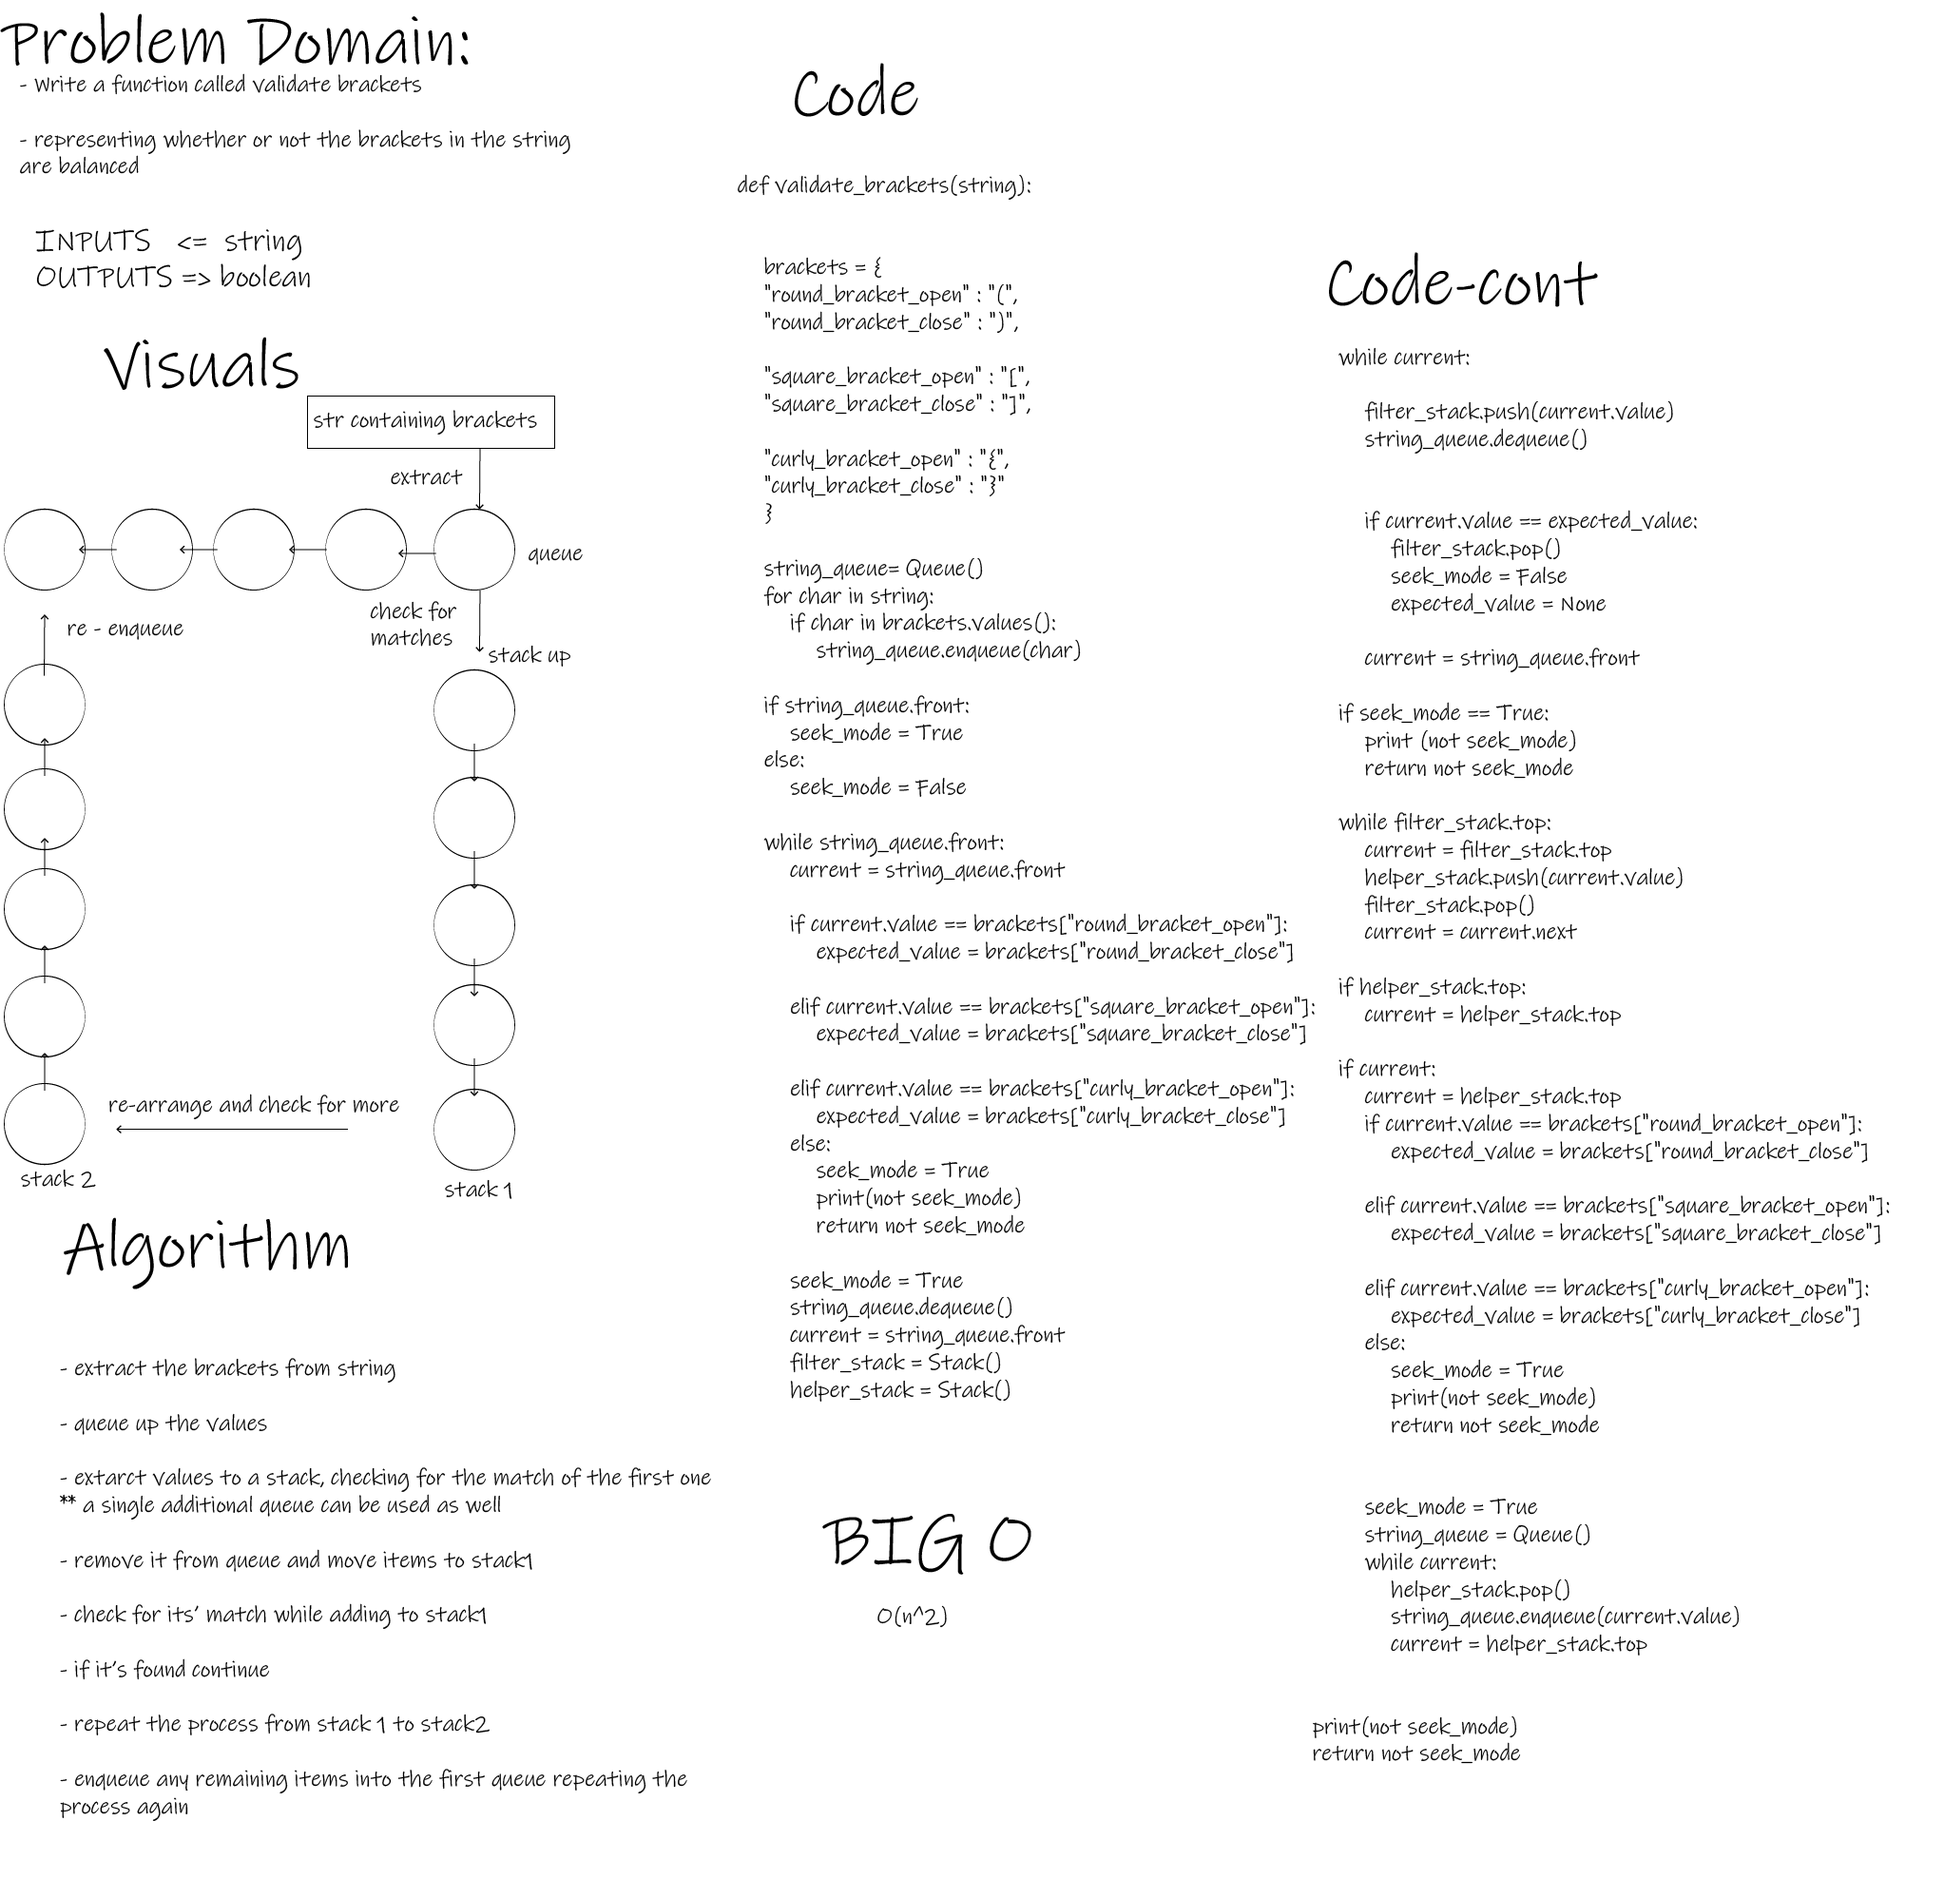
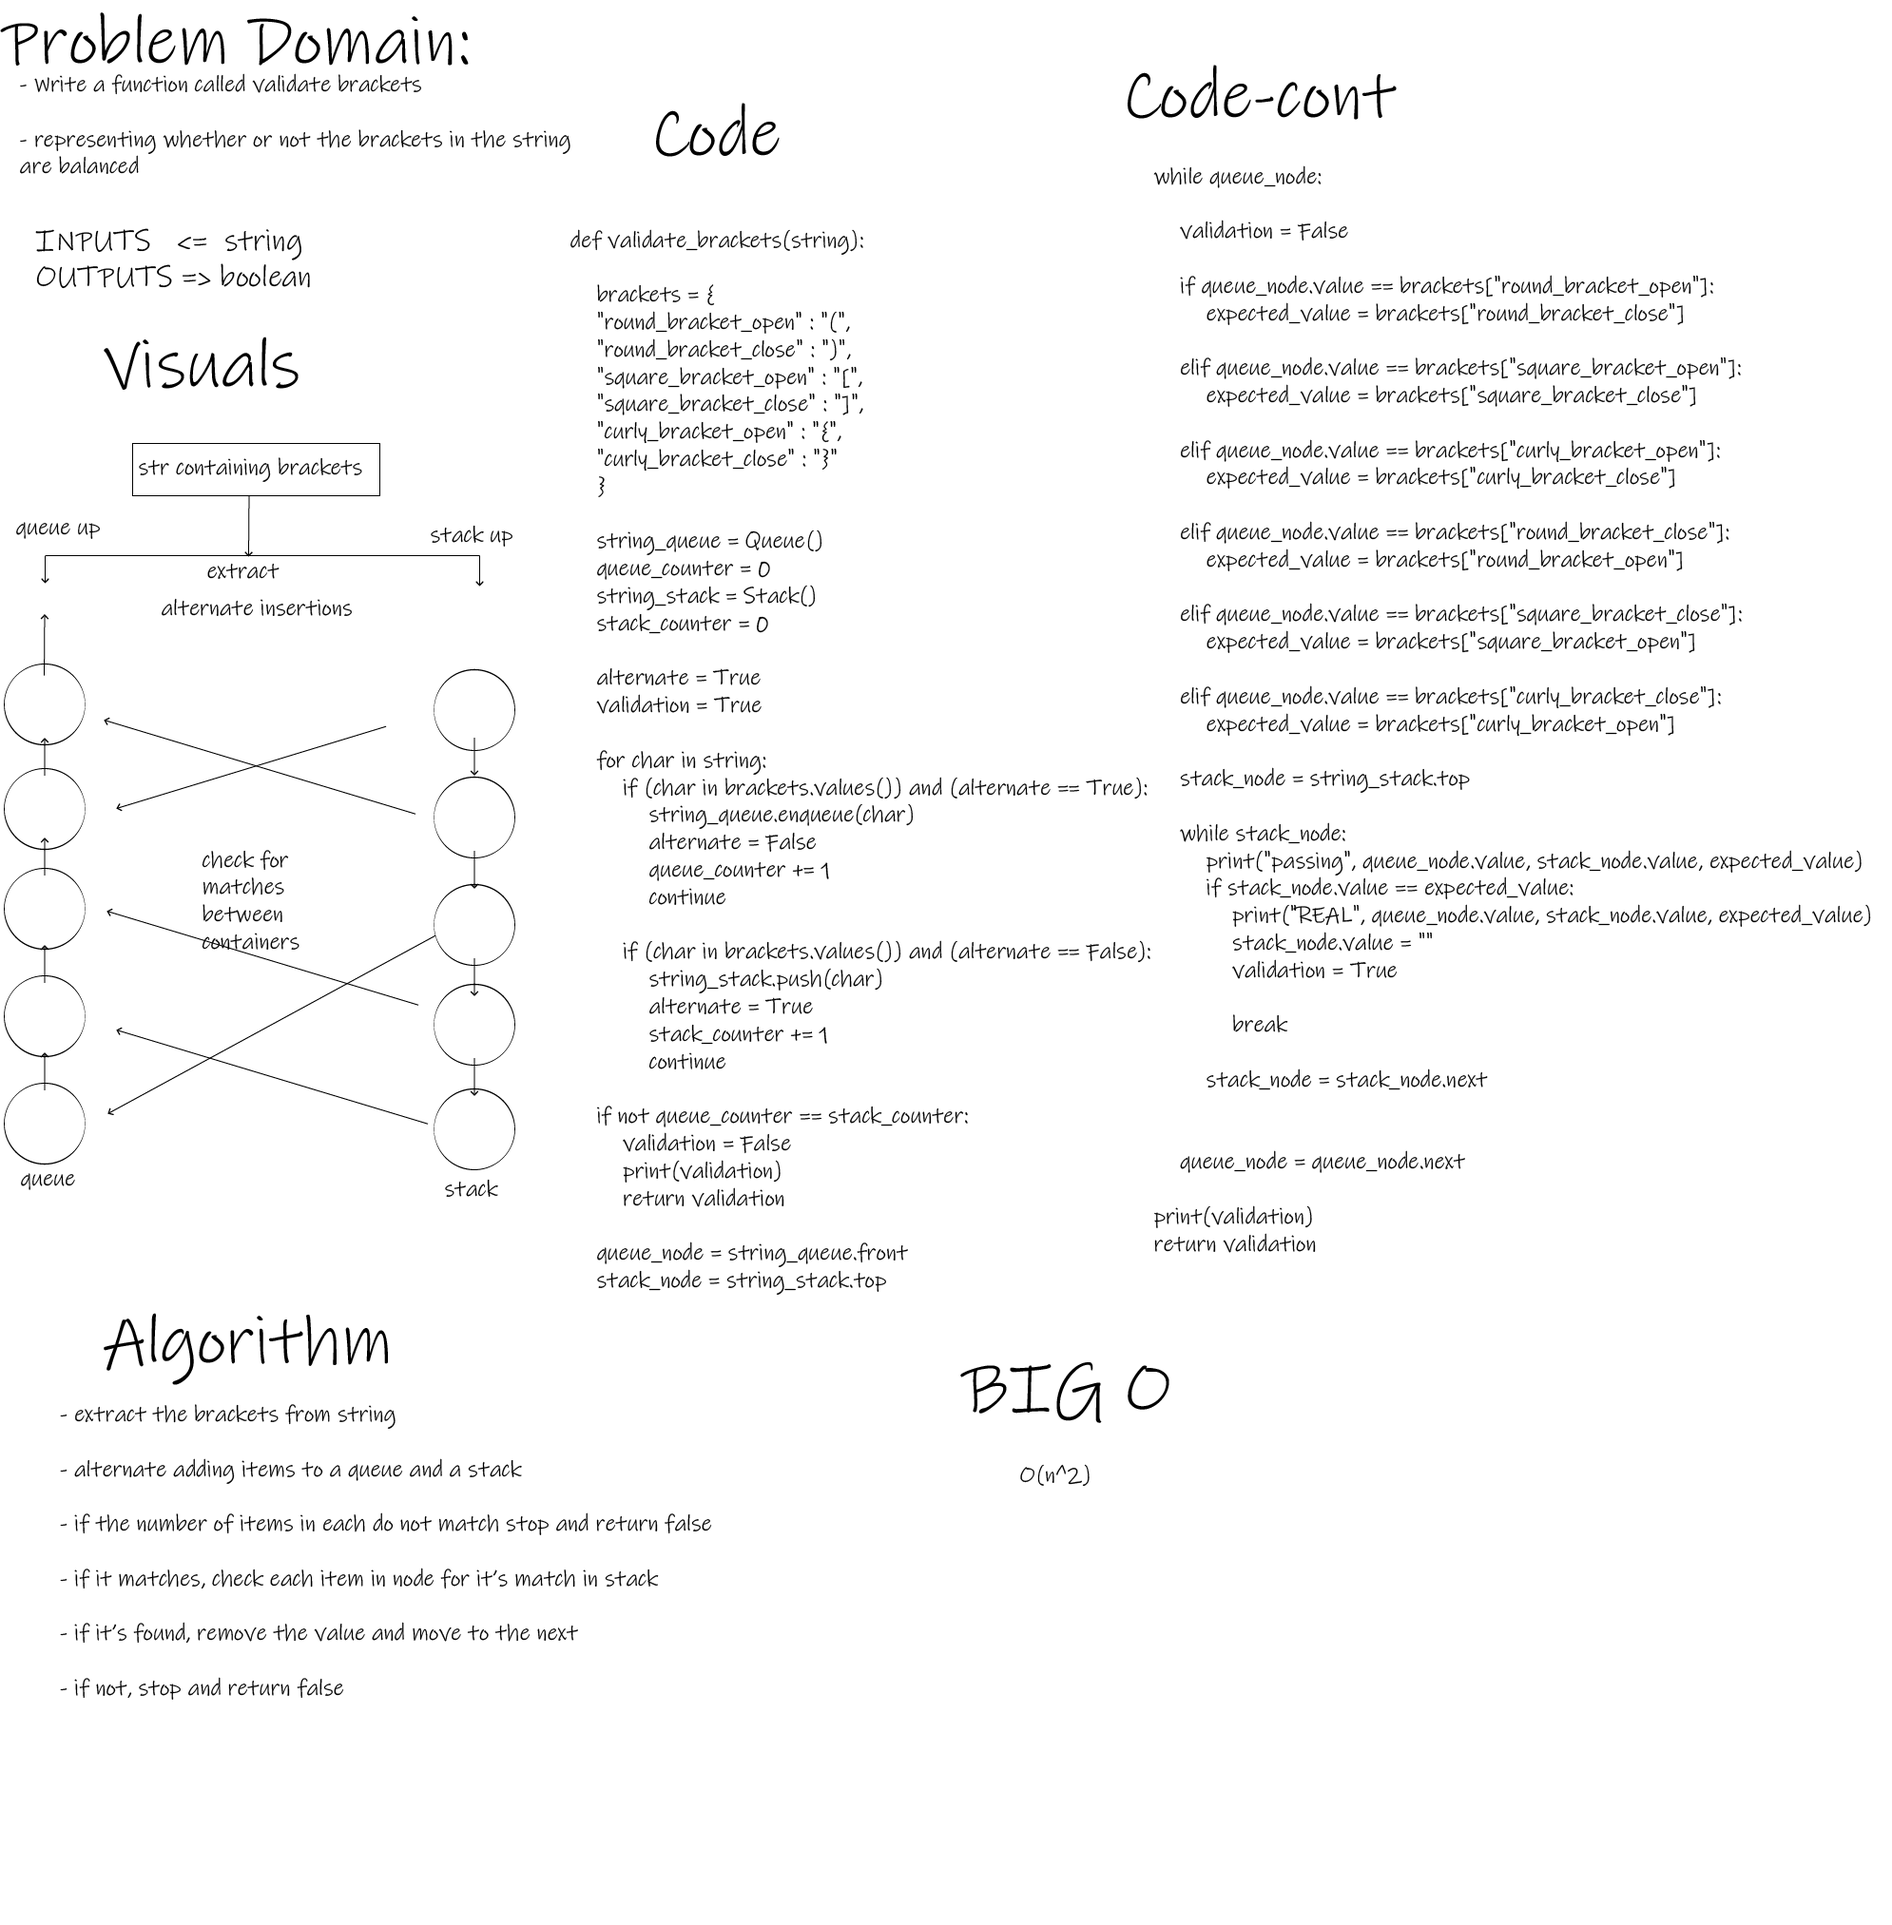
feat:completed stack-queue-brackets)

diff --git a/python/stack_and_queue/stack_queue_brackets.py b/python/stack_and_queue/stack_queue_brackets.py
@@ -4,6 +4,7 @@ from stack_and_queue.stack  import Stack
 # from queue  import Queue
 # from stack  import Stack
 
+
 def validate_brackets(string):
     """
     Representing whether or not the brackets in the string are balanced.
@@ -29,98 +30,78 @@ def validate_brackets(string):
     "curly_bracket_close" : "}"
     }
 
-    string_queue= Queue()
+    string_queue = Queue()
+    queue_counter = 0
+    string_stack = Stack()
+    stack_counter = 0
+
+    alternate = True
+    validation = True
+
     for char in string:
-        if char in brackets.values():
+        if (char in brackets.values()) and (alternate == True):
             string_queue.enqueue(char)
+            alternate = False
+            queue_counter += 1
+            continue
 
-    if string_queue.front:
-        seek_mode = True
-    else:
-        seek_mode = False
+        if (char in brackets.values()) and (alternate == False):
+            string_stack.push(char)
+            alternate = True
+            stack_counter += 1
+            continue
 
-    while string_queue.front:
-        current = string_queue.front
+    if not queue_counter == stack_counter:
+        validation = False
+        print(validation)
+        return validation
 
-        if current.value == brackets["round_bracket_open"]:
+    queue_node = string_queue.front
+    stack_node = string_stack.top
+
+
+    while queue_node:
+
+        validation = False
+
+        if queue_node.value == brackets["round_bracket_open"]:
             expected_value = brackets["round_bracket_close"]
 
-        elif current.value == brackets["square_bracket_open"]:
+        elif queue_node.value == brackets["square_bracket_open"]:
             expected_value = brackets["square_bracket_close"]
 
-        elif current.value == brackets["curly_bracket_open"]:
+        elif queue_node.value == brackets["curly_bracket_open"]:
             expected_value = brackets["curly_bracket_close"]
-        else:
-            seek_mode = True
-            print(not seek_mode)
-            return not seek_mode
 
-        seek_mode = True
-        string_queue.dequeue()
-        current = string_queue.front
-        filter_stack = Stack()
-        helper_stack = Stack()
+        elif queue_node.value == brackets["round_bracket_close"]:
+            expected_value = brackets["round_bracket_open"]
 
+        elif queue_node.value == brackets["square_bracket_close"]:
+            expected_value = brackets["square_bracket_open"]
 
-        while current:
-
-            filter_stack.push(current.value)
-            string_queue.dequeue()
-
-
-            if current.value == expected_value:
-                filter_stack.pop()
-                seek_mode = False
-                expected_value = None
-
-            current = string_queue.front
-
-        if seek_mode == True:
-            print (not seek_mode)
-            return not seek_mode
-
-        while filter_stack.top:
-            current = filter_stack.top
-            helper_stack.push(current.value)
-            filter_stack.pop()
-            current = current.next
-
-        if helper_stack.top:
-            current = helper_stack.top
-
-        if current:
-            current = helper_stack.top
-            if current.value == brackets["round_bracket_open"]:
-                expected_value = brackets["round_bracket_close"]
-
-            elif current.value == brackets["square_bracket_open"]:
-                expected_value = brackets["square_bracket_close"]
-
-            elif current.value == brackets["curly_bracket_open"]:
-                expected_value = brackets["curly_bracket_close"]
-            else:
-                seek_mode = True
-                print(not seek_mode)
-                return not seek_mode
-
-
-            seek_mode = True
-            string_queue = Queue()
-            while current:
-                helper_stack.pop()
-                string_queue.enqueue(current.value)
-                current = helper_stack.top
-
-
-    print(not seek_mode)
-    return not seek_mode
+        elif queue_node.value == brackets["curly_bracket_close"]:
+            expected_value = brackets["curly_bracket_open"]
 
 
 
+        stack_node = string_stack.top
+
+        while stack_node:
+            print("passing", queue_node.value, stack_node.value, expected_value)
+            if stack_node.value == expected_value:
+                print("REAL", queue_node.value, stack_node.value, expected_value)
+                stack_node.value = ""
+                validation = True
+
+                break
+
+            stack_node = stack_node.next
 
 
+        queue_node = queue_node.next
 
-
+    print(validation)
+    return validation
 
 
 # if __name__ == "__main__":
@@ -134,3 +115,4 @@ def validate_brackets(string):
     # validate_brackets("[({}]")
     # validate_brackets("(](")
     # validate_brackets("{}(){}")
+    # validate_brackets("{(})")

diff --git a/python/tests/test_stack_and_queue.py b/python/tests/test_stack_and_queue.py
@@ -496,13 +496,52 @@ def test_validate_brackets_case_8():
     assert actual == expected
 
 
-@pytest.mark.skip("fails last test, needs further work")
 def test_validate_brackets_case_9():
     #Arrange
     expected = False
 
     #Act
     actual = validate_brackets("{(})")
+
+    #Assert
+    assert actual == expected
+
+def test_validate_brackets_case_10():
+    #Arrange
+    expected = True
+
+    #Act
+    actual = validate_brackets("(([{[()]}]))")
+
+    #Assert
+    assert actual == expected
+
+def test_validate_brackets_case_11():
+    #Arrange
+    expected = True
+
+    #Act
+    actual = validate_brackets("(([{[)(]}]))")
+
+    #Assert
+    assert actual == expected
+
+def test_validate_brackets_case_12():
+    #Arrange
+    expected = False
+
+    #Act
+    actual = validate_brackets("(([{)[(]}]))")
+
+    #Assert
+    assert actual == expected
+
+def test_validate_brackets_case_13():
+    #Arrange
+    expected = False
+
+    #Act
+    actual = validate_brackets("(([{)[(]}]})")
 
     #Assert
     assert actual == expected

diff --git a/python/stack_and_queue/README.md b/python/stack_and_queue/README.md
@@ -211,4 +211,4 @@
 
 - [x] Can successfully detect unbalanced brackets
 - [x] Can successfully detect balanced brackets
-- [ ] Can successfully detect programmatically unbalanced brackets
+- [x] Can successfully detect programmatically unbalanced brackets
